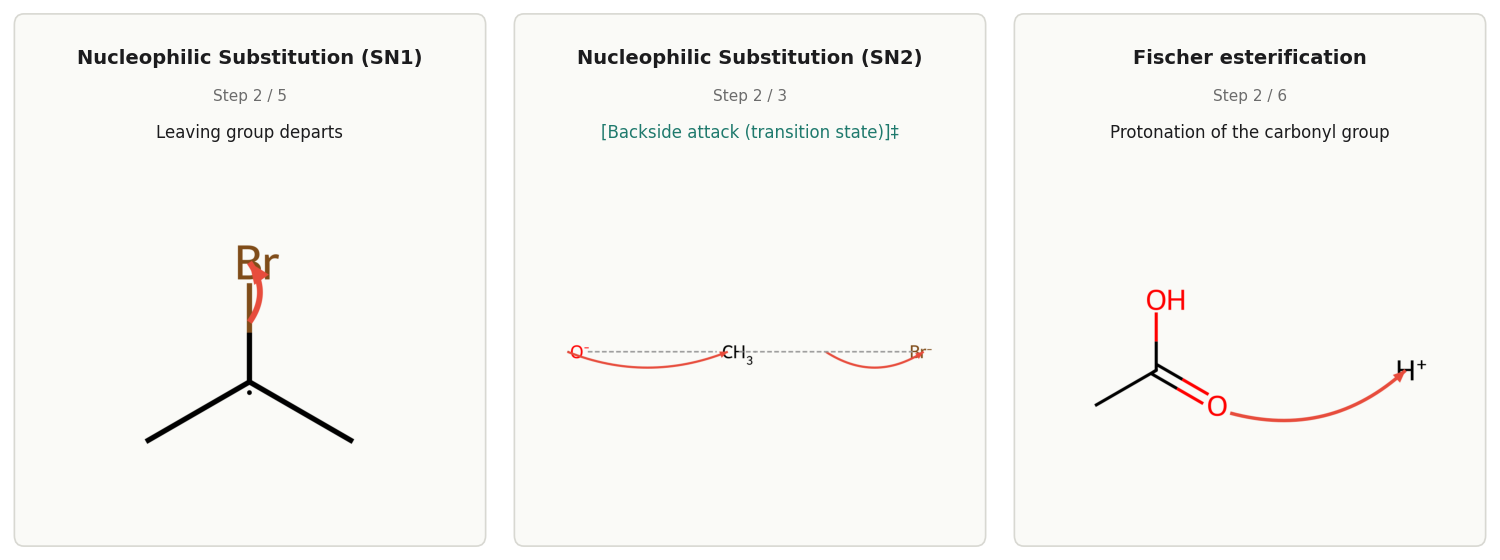
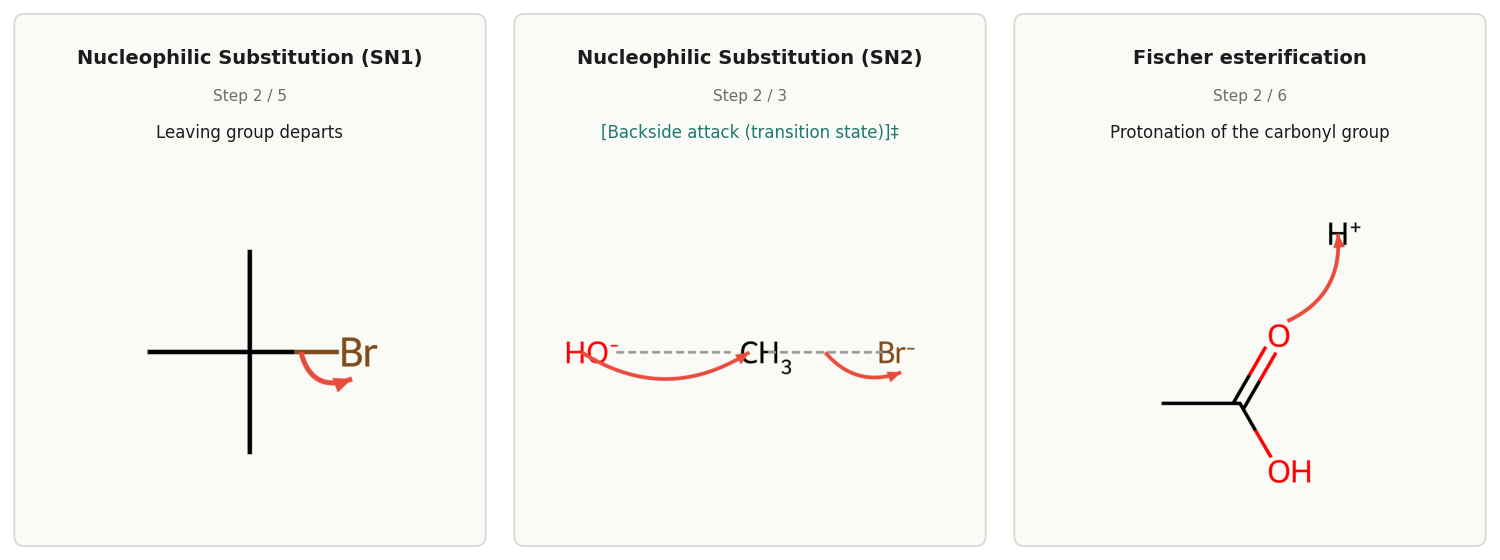
docs: CHANGELOG für 0.8.0 (unveröffentlicht), README-Mechanismusbild neu erzeugt
wave1-mechanisms.png kommt jetzt aus dem Substratweg; SN1-Eingabe im
Skript auf tert-Butylbromid, weil 2-Brompropan außerhalb der SN1-Grenze
liegt. Bild gesichtet, Hash bewusst neu gesegnet.

Claude-Session: https://claude.ai/code/session_01RTLSKcGaBtncZjreEXAbT8

diff --git a/scripts/readme_bilder.py b/scripts/readme_bilder.py
@@ -280,7 +280,7 @@ def dose_response() -> bytes:
 # --- Galerie: Mechanismen und 3D -------------------------------------------------
 
 MECHANISMS = [
-    ("sn1", [r"CC(C)Br", "O"]),
+    ("sn1", ["CC(C)(C)Br", "O"]),
     ("sn2", ["CBr", "[OH-]"]),
     ("fischer_ester", ["CC(=O)O", "CO"]),
 ]

diff --git a/CHANGELOG.md b/CHANGELOG.md
@@ -6,6 +6,35 @@ this project uses [Semantic Versioning](https://semver.org/).
 
 ## [Unreleased]
 
+Planned as 0.8.0.
+
+### Added
+
+- **Mechanisms with your own molecules** (`generate_mechanism`): the steps are
+  now drawn with the substrates you pass, not a fixed example. The reaction
+  centre is found per family, intermediates and products are derived from your
+  molecules, and the arrows point at their atoms. SN2 inverts a stereocentre
+  ((R)-2-bromobutane + cyanide gives the (S)-nitrile); SN1 marks a stereogenic
+  product as racemic. Each family has a stated limit:
+  - SN2: methyl, primary or secondary alkyl chloride, bromide or iodide with
+    one anionic nucleophile (OH⁻, CN⁻, I⁻, Br⁻, RO⁻, N₃⁻, RS⁻/HS⁻).
+  - SN1: tertiary, benzylic or allylic alkyl halide with water, an alcohol or
+    one of those anions.
+  - Fischer esterification: one carboxylic acid with one primary or secondary
+    alcohol.
+- Result fields `substrates_drawn` and `fallback_reason`: without substrates,
+  or if the drawing fails, the textbook example is shown and the result says so.
+
+### Changed
+
+- Substrates outside a family's limit now get an error that names the reason
+  (for example "tertiary halide — … use sn1") instead of a SMARTS pattern;
+  counter-ions such as Na⁺ are ignored.
+- The SN1 textbook example is now 2-bromo-2-methylpropane + water (a secondary
+  halide is outside the SN1 limit).
+- The curved arrow from a breaking bond to the leaving group ends beside the
+  atom instead of under its label.
+
 ## [0.7.0] — 2026-11-03
 
 The default profile grows from 7 to 16 tools: mechanisms, 3D, look-ups,
